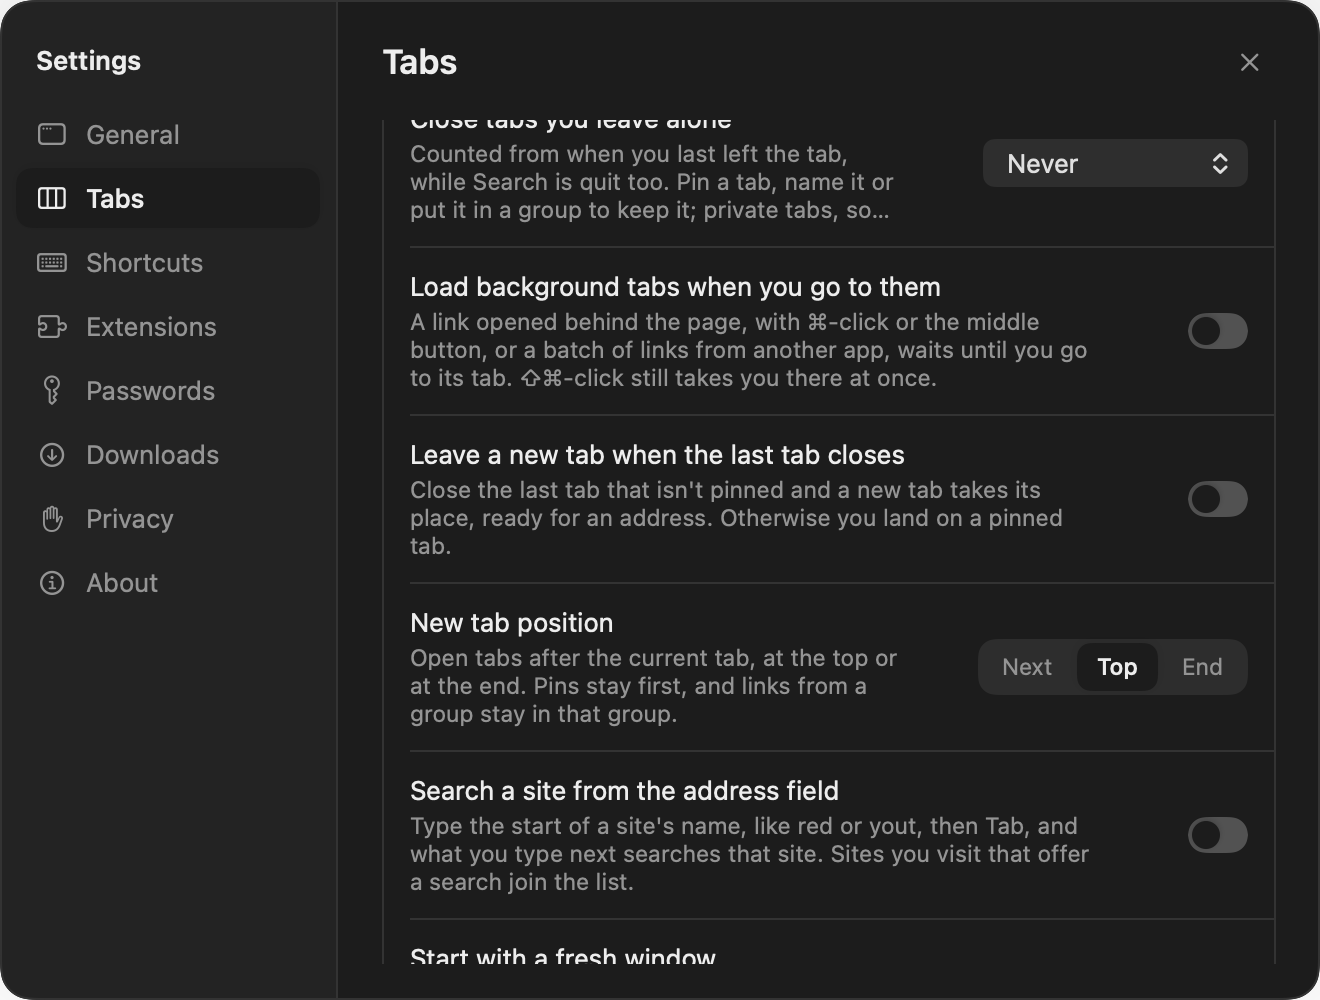
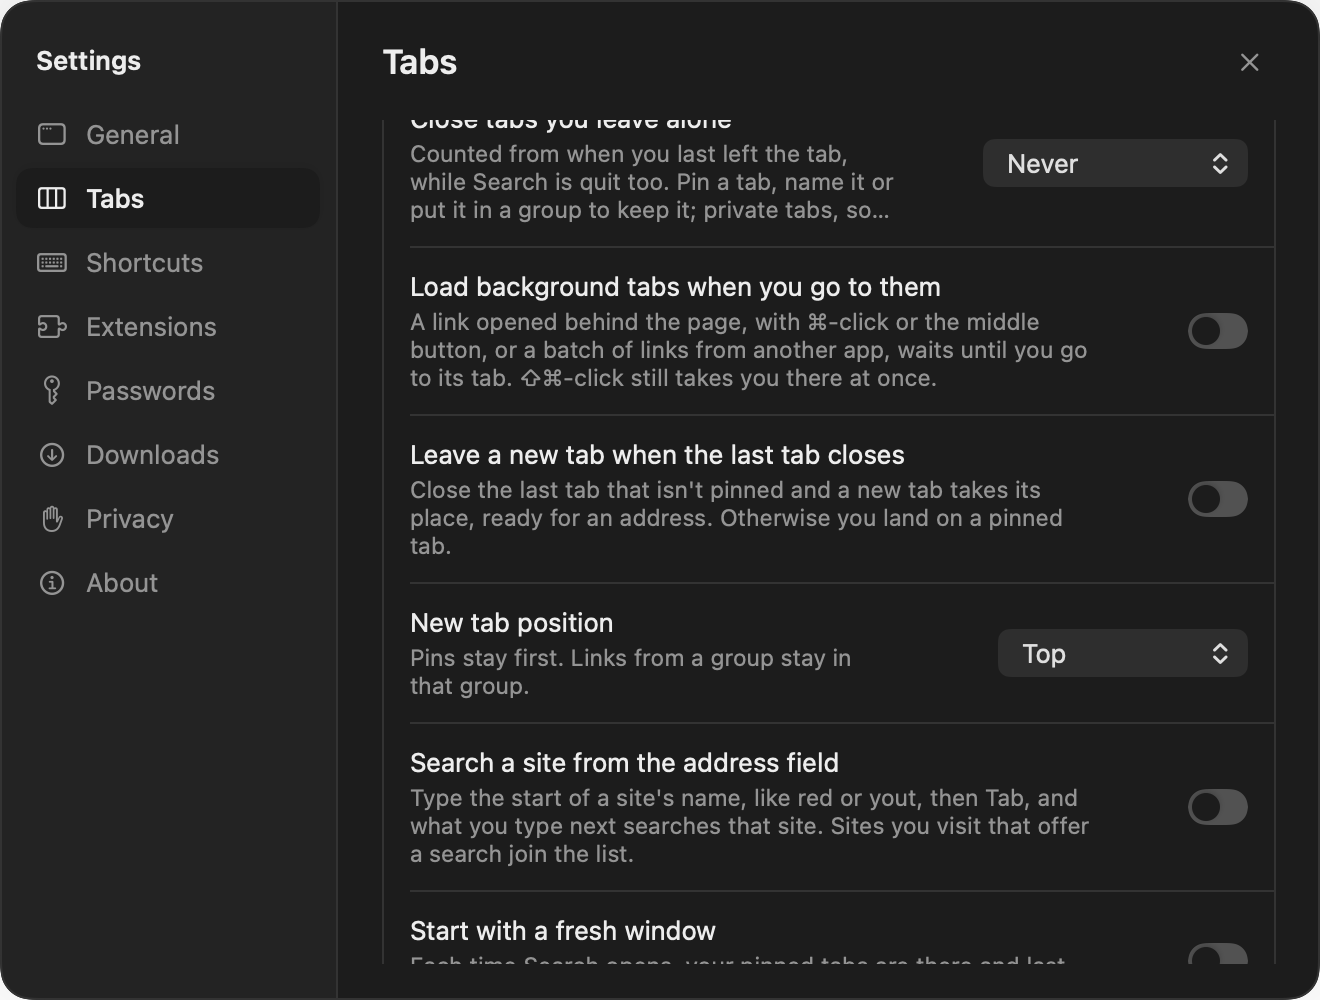
fix: clarify tab placement in both layouts

diff --git a/Sources/Search/Browser.swift b/Sources/Search/Browser.swift
@@ -2845,13 +2845,10 @@ final class Browser: NSObject, ObservableObject {
             Extensions.shared.offerNewTabPage(into: tab)
             return
         }
-        // Never two empty tabs. One already open comes to the top when chosen,
-        // otherwise the end, with whatever was typed into it and
-        // never gone to cleared away — a row of identical empty tabs is what
-        // pressing ⌘T twice, or holding it, used to leave.
+        // Reuse an empty tab at the chosen position, clearing its draft:
+        // repeated ⌘T must not leave a row of identical empty tabs.
         if let blank = tabs.last(where: { $0.isBlank && !$0.bench && !$0.shy && split(for: $0) == nil }) {
-            let place = prefs.newTabPlace == .top ? pinnedCount : tabs.count - 1
-            move(blank, to: place)
+            placeBlank(blank)
             if activeID != blank.id { leaving() }
             activeID = blank.id
             summoning = false
@@ -2867,7 +2864,7 @@ final class Browser: NSObject, ObservableObject {
         }
         let tab = Tab(configuration: Web.configuration(space: spaceID))
         prepare(tab)
-        tabs.insert(tab, at: prefs.newTabPlace == .top ? placeForNew() : tabs.count)
+        tabs.insert(tab, at: placeForNew())
         leaving()
         activeID = tab.id
         summoning = false
@@ -3927,10 +3924,9 @@ final class Browser: NSObject, ObservableObject {
     /// history, and no place in tomorrow's session.
     func newShyTab() {
         // Never two empty private tabs, as ⌘T never makes two empty ones:
-        // one already open is moved to the chosen end of the row.
+        // one already open is moved to the chosen position.
         if let blank = tabs.last(where: { $0.isBlank && $0.shy && !$0.bench && split(for: $0) == nil }) {
-            let place = prefs.newTabPlace == .top ? pinnedCount : tabs.count - 1
-            move(blank, to: place)
+            placeBlank(blank)
             if activeID != blank.id { leaving() }
             activeID = blank.id
             summoning = false
@@ -3942,7 +3938,7 @@ final class Browser: NSObject, ObservableObject {
         }
         let tab = Tab(shy: true)
         prepare(tab)
-        tabs.insert(tab, at: prefs.newTabPlace == .top ? placeForNew() : tabs.count)
+        tabs.insert(tab, at: placeForNew())
         leaving()
         activeID = tab.id
         summoning = false
@@ -4118,6 +4114,13 @@ final class Browser: NSObject, ObservableObject {
         guard let here = tabs.firstIndex(where: { $0.id == activeID }) else { return tabs.count }
         let after = activeSplit.flatMap { pair in tabs.firstIndex { $0.id == pair.right } } ?? here
         return max(after + 1, pinnedCount)
+    }
+
+    private func placeBlank(_ tab: Tab) {
+        guard let from = tabs.firstIndex(where: { $0.id == tab.id }) else { return }
+        let to = placeForNew()
+        // Moving an existing tab removes its old slot before inserting it.
+        move(tab, to: from < to ? to - 1 : to)
     }
 
     /// A tab made outside the row — a peek being kept — put in it at `index`.
@@ -5085,7 +5088,7 @@ extension Browser: WKNavigationDelegate, WKUIDelegate {
             tabs.insert(tab, at: placeForNew())
         } else {
             prepare(tab)
-            tabs.insert(tab, at: prefs.newTabPlace == .top ? placeForNew() : tabs.count)
+            tabs.insert(tab, at: placeForNew())
             activeID = tab.id
             editing = false
         }

diff --git a/Sources/Search/Settings.swift b/Sources/Search/Settings.swift
@@ -483,8 +483,15 @@ struct SettingsPanel: View {
                 Switch(on: $prefs.newTabAfterLast)
             }
             Rule()
-            Line("New tab position", "Open tabs after the current tab, at the top or at the end. Pins stay first, and links from a group stay in that group.") {
-                Segmented(options: [(.next, "Next"), (.top, "Top"), (.end, "End")], selection: $prefs.newTabPlace)
+            Line("New tab position", "Pins stay first. Links from a group stay in that group.") {
+                Picker("New tab position", selection: $prefs.newTabPlace) {
+                    Text("After current").tag(NewTabPlace.next)
+                    Text(prefs.sidebar ? "Top" : "Leftmost").tag(NewTabPlace.top)
+                    Text(prefs.sidebar ? "Bottom" : "Rightmost").tag(NewTabPlace.end)
+                }
+                .labelsHidden()
+                .pickerStyle(.menu)
+                .fixedSize()
             }
             Rule()
             Line("Search a site from the address field", "Type the start of a site's name, like red or yout, then Tab, and what you type next searches that site. Sites you visit that offer a search join the list.") {

diff --git a/Tests/new_tab_end.py b/Tests/new_tab_end.py
@@ -40,16 +40,51 @@ def run(t, place, sidebar=True):
         # The initial blank is reused, then navigated so the next one is fresh.
         blank = sv.sp("newTab")["activeID"]
         now = order()
-        target = 0 if place == "top" else len(now) - 1
+        target = {"next": now.index(d) + 1, "top": 0, "end": len(now) - 1}[place]
         t.ok(f"{place}: reused blank has the chosen position", now[target] == blank, now)
         t.ok(f"{place}: repeated new tab reuses the same blank", sv.sp("newTab")["activeID"] == blank)
         sv.cmd({"do": "go", "id": blank, "url": f"{sv.BASE}/filled"})
         time.sleep(0.7)
         fresh = sv.sp("newTab")["activeID"]
         now = order()
-        t.ok(f"{place}: fresh blank has the chosen position", fresh != blank and now[0 if place == "top" else -1] == fresh, now)
+        target = {"next": now.index(blank) + 1, "top": 0, "end": len(now) - 1}[place]
+        t.ok(f"{place}: fresh blank has the chosen position", fresh != blank and now[target] == fresh, now)
 
         if place != "top":
+            # Reuse from either side of the current tab, not only the initial slot.
+            for anchor in [a, c]:
+                sv.sp("select", id=anchor)
+                reused = sv.sp("newTab")["activeID"]
+                now = order()
+                target = now.index(anchor) + 1 if place == "next" else len(now) - 1
+                t.ok(f"{place}: reused blank follows the current choice", reused == fresh and now[target] == fresh, now)
+            sv.sp("select", id=a)
+            private = sv.sp("private")["activeID"]
+            now = order()
+            target = now.index(a) + 1 if place == "next" else len(now) - 1
+            t.ok(f"{place}: fresh private tab follows the current choice", now[target] == private, now)
+            sv.sp("select", id=c)
+            reused = sv.sp("private")["activeID"]
+            now = order()
+            target = now.index(c) + 1 if place == "next" else len(now) - 1
+            t.ok(f"{place}: reused private tab follows the current choice", reused == private and now[target] == private, now)
+            if place == "next":
+                sv.sp("pair", id=b, **{"with": a, "side": "right"})
+                for slot in [0, len(order()) - 1]:
+                    sv.sp("move", id=fresh, to=slot)
+                    sv.sp("select", id=a)
+                    reused = sv.sp("newTab")["activeID"]
+                    now = order()
+                    t.ok("next: reused blank goes after the whole split", reused == fresh and now.index(fresh) == now.index(b) + 1, now)
+            sv.sp("select", id=d)
+            sv.ev(d, "document.body.innerHTML = `<button id='go' onclick=\"window.open('/popup')\">Open</button>`")
+            sv.cmd({"do": "tap", "id": d, "selector": "#go"})
+            time.sleep(1)
+            state = sv.sp("state")
+            popup = next(tab["id"] for tab in state["tabs"] if tab["url"] == f"{sv.BASE}/popup")
+            now = order(state)
+            target = now.index(d) + 1 if place == "next" else len(now) - 1
+            t.ok(f"{place}: foreground popup has the chosen position", now[target] == popup, now)
             return
 
         sv.cmd({"do": "pin", "id": a})
@@ -122,9 +157,9 @@ def run(t, place, sidebar=True):
 def main():
     t = sv.T()
     try:
-        for place in ("next", "end", "top"):
-            run(t, place)
-        run(t, "top", sidebar=False)
+        for sidebar in (True, False):
+            for place in ("next", "end", "top"):
+                run(t, place, sidebar=sidebar)
     finally:
         t.done()
     sys.exit(1 if t.failed else 0)

diff --git a/CHANGELOG.md b/CHANGELOG.md
@@ -13,7 +13,7 @@ in [ROADMAP.md](ROADMAP.md).
 
 ### Added
 
-- New tabs can open at the top, after the pins: Settings › Tabs › New tab position now offers Next, Top and End. Top also applies to new and reused blank tabs, including private tabs; links from a group stay in that group. Asked for on [#606](https://github.com/driceroland/Search/issues/606).
+- New tab position offers After current, Top and Bottom in the sidebar, or After current, Leftmost and Rightmost across the top. The same saved choice applies to both layouts, including new and reused blank tabs and private tabs. Pins stay first; links from a group stay in that group. Asked for on [#606](https://github.com/driceroland/Search/issues/606).
 
 - An extension's side panel, as in Chrome: ChatGPT's, Claude's, Sider's or Merlin's panel opens beside the page instead of in a tab, on the side away from the tabs, as wide as you leave it (drag its edge; a double-click puts it back). With the page as a card it is a card of its own; edge to edge or with the tabs across the top, it meets the page at a fine line. In Split View the two pages share the rest. Opened for one tab, it comes and goes with that tab. A panel that can't open opens as a tab, as before
 - The page as a card can be turned off, in Settings › Tabs › The page as a card, beside the sidebar's settings. Off, the page reaches the window's edges and the column is white with its fine line, as before 1.0.5. It stays on unless you turn it off. Asked for on [#607](https://github.com/driceroland/Search/issues/607)
@@ -27,7 +27,7 @@ in [ROADMAP.md](ROADMAP.md).
 - Remove All… in the passwords panel takes every password Search keeps out of the keychain at once, after asking and after Touch ID or your password, as showing one does, for when you move them to a password manager of your own. With the search box narrowing the list it reads Remove 12… and removes only what the list shows. Return is Cancel there. Passwords in Bitwarden, other apps and other browsers are not touched. Thanks [@Tekkiech](https://github.com/Tekkiech) for asking and [@karadoganyi](https://github.com/karadoganyi) for building it ([#471](https://github.com/driceroland/Search/pull/471), [#469](https://github.com/driceroland/Search/issues/469))
 - Search is offered under the Finder's Open With for PDFs, pictures, text files and JSON, as it was for web pages. It never becomes what opens them on a double-click. Thanks [@arvakme](https://github.com/arvakme) for asking ([#524](https://github.com/driceroland/Search/issues/524))
 - Pins go back home, off unless you turn it on in Settings: as in Arc, a pinned tab closed with ⌘W, or open when Search quits, comes back at the page it was pinned at instead of wherever you went from there. Thanks [@FabianoC13](https://github.com/FabianoC13) ([#614](https://github.com/driceroland/Search/pull/614))
-- New tabs can open at the end of the list instead of just after the tab you are on: Settings › Tabs › New tab position › End. Next unless you change it. Thanks [@FabianoC13](https://github.com/FabianoC13) ([#613](https://github.com/driceroland/Search/pull/613))
+- New tabs can open at the end of the list instead of just after the tab you are on: Settings › Tabs › New tab position › Bottom (Rightmost across the top). After current unless you change it. Thanks [@FabianoC13](https://github.com/FabianoC13) ([#613](https://github.com/driceroland/Search/pull/613))
 - Roomier tabs, off unless you turn it on in Settings › Tabs: taller rows and larger titles in the sidebar, for anyone who finds the column hard to read. Thanks [@CallMeAl3x](https://github.com/CallMeAl3x) ([#609](https://github.com/driceroland/Search/pull/609), [#570](https://github.com/driceroland/Search/issues/570))
 - ⌘T can raise the address field over the page you are on, as in Arc, off unless you turn it on in Settings › General › New tab in a floating field. Return opens what you typed in a new tab; Escape, ⌘W or a click outside puts the field away and leaves the page as it was. On a blank tab, or with an extension's new tab page, ⌘T opens a tab as before. Thanks [@FabianoC13](https://github.com/FabianoC13) ([#601](https://github.com/driceroland/Search/pull/601))
 - Pins in every space: a pin can be kept in every space, shown above each space's own pins, as Arc's favourites sit above every space. Right-click a pin and choose Keep in Every Space, or Only in This Space to take it back; unpinning it takes it out of every space. A space with its own sign-ins signs in to it its own way. Off unless you turn it on in Settings › Tabs › Pins in every space, which shows while Spaces is on. Thanks [@karadoganyi](https://github.com/karadoganyi) ([#463](https://github.com/driceroland/Search/pull/463))
